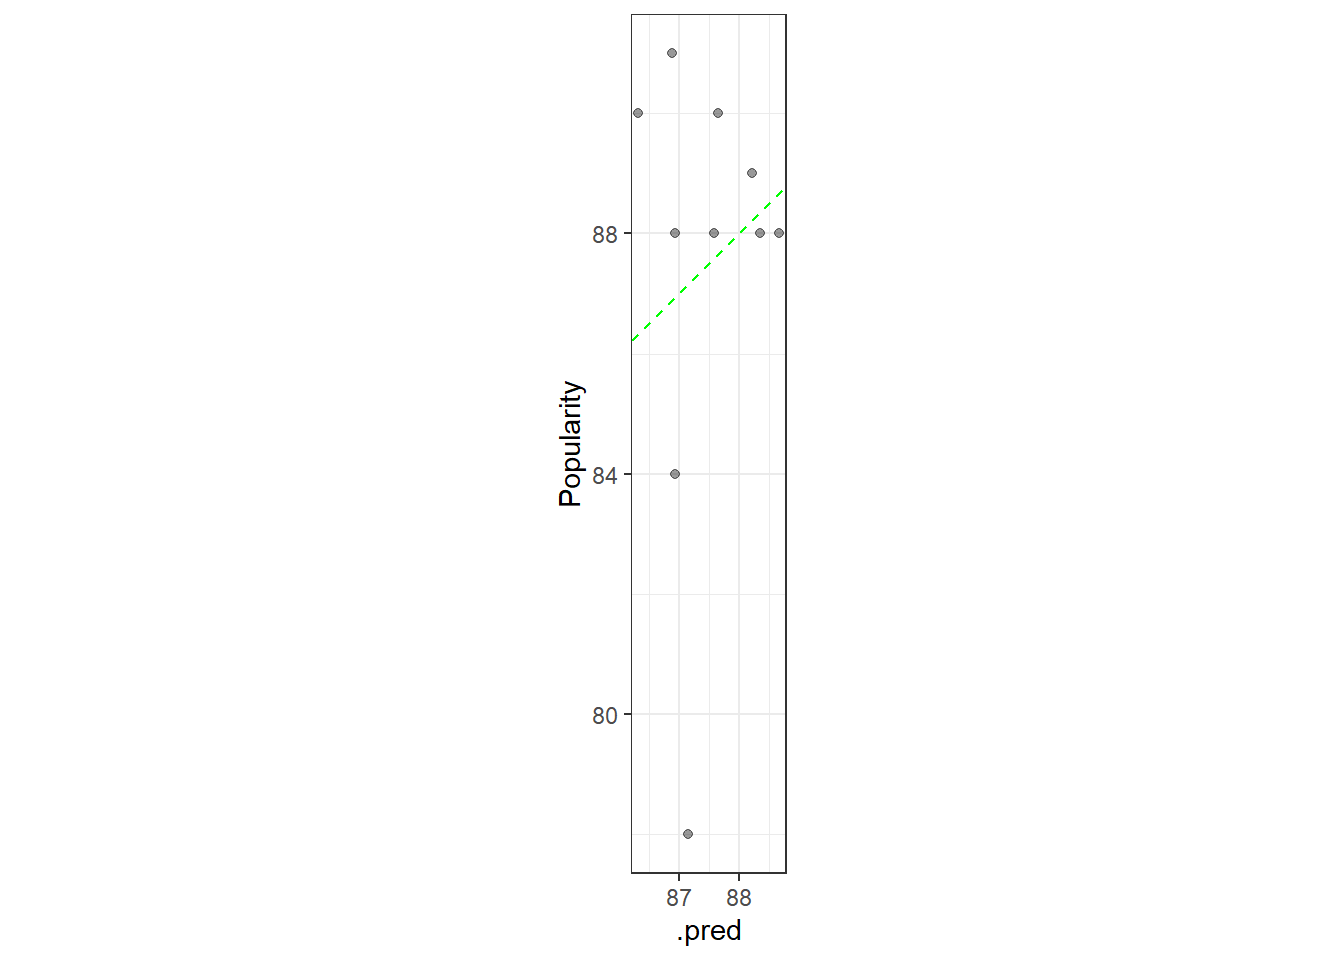
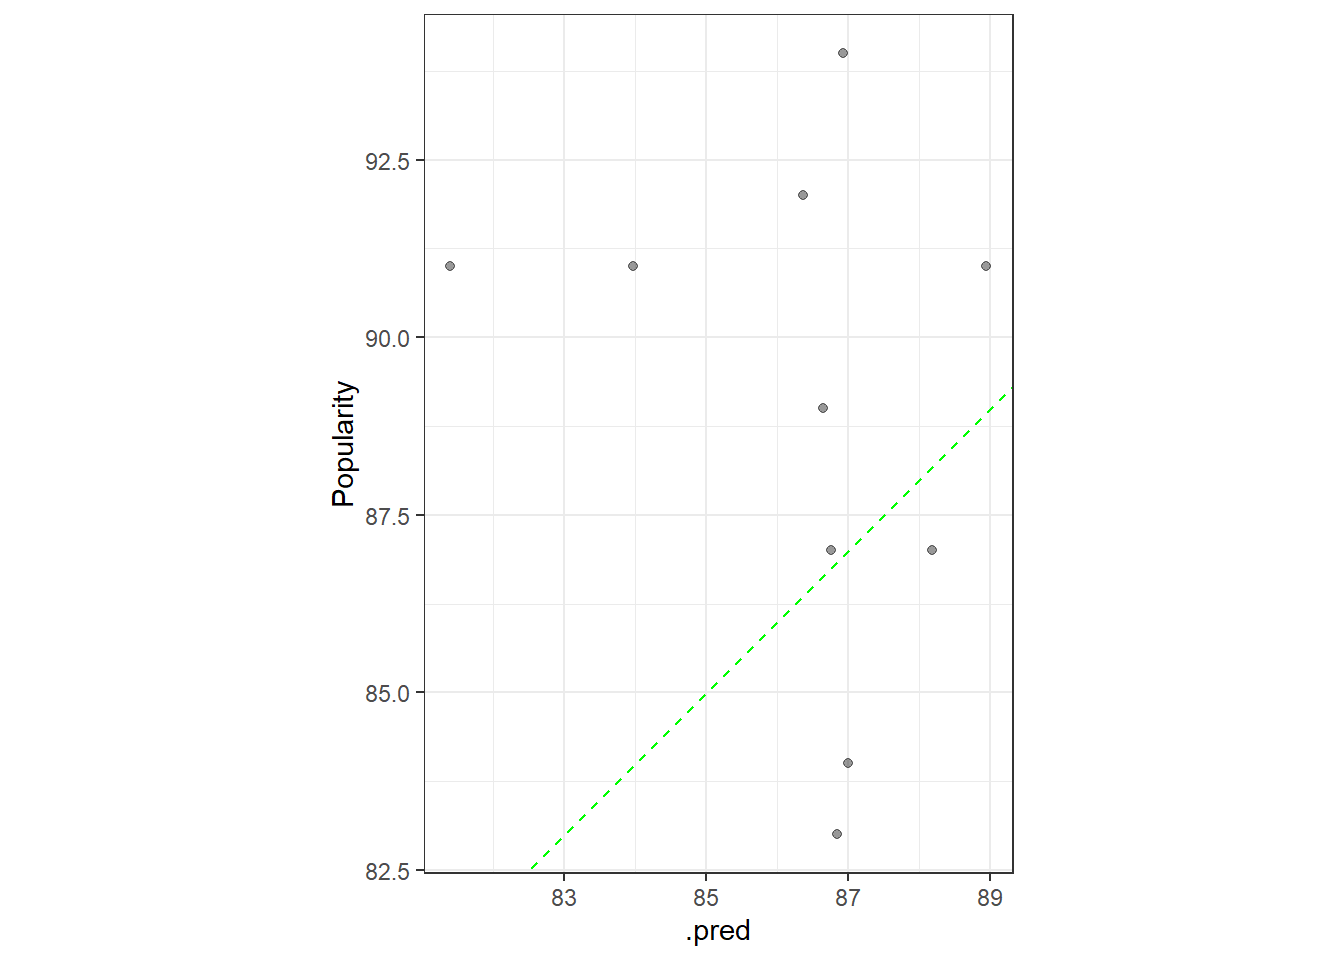
updated index

diff --git a/docs/analysis.html b/docs/analysis.html
@@ -444,25 +444,16 @@ relevant scores.</li>
 <p>We want to learn more about the impact of different measures on a
 song’s popularity, and ideally be able to then use that knowledge to be
 able to predict what would make a highly popular song</p>
-</div>
-<div id="results" class="section level2">
-<h2>Results</h2>
-<p><strong>Results:</strong><br />
-From the analysis we find that:</p>
-<ol style="list-style-type: decimal">
-<li>Overall,</li>
-</ol>
-<p><strong>Potential Investigation Next Steps:</strong></p>
-<ul>
-<li>It would be interesting in future iterations,</li>
-</ul>
-</div>
-<div id="assumptions" class="section level2">
-<h2>Assumptions</h2>
-<p><strong>Assumptions:</strong> <em>(Note: this section would likely
-take a different shape as familiarity with the data source increase/
-relationship with the customer develops)</em></p>
-<p>With this analysis we are assuming that:</p>
+<!-- ## Results -->
+<!-- __Results:__   -->
+<!-- From the analysis we find that: -->
+<!-- 1. Overall,   -->
+<!-- __Potential Investigation Next Steps:__  -->
+<!-- * It would be interesting in future iterations,  -->
+<!-- ## Assumptions  -->
+<!-- __Assumptions:__ -->
+<!-- _(Note: this section would likely take a different shape as familiarity with the data source increase/ relationship with the customer develops)_  -->
+<!-- With this analysis we are assuming that:  -->
 </div>
 </div>
 </div>
@@ -504,8 +495,8 @@ within.</p>
 possible that the category of a song could impact it’s popularity, but
 that analysis is likely one for a larger dataset.</li>
 </ul>
-<div id="htmlwidget-26db860c40dbeb248405" style="width:100%;height:auto;" class="datatables html-widget"></div>
-<script type="application/json" data-for="htmlwidget-26db860c40dbeb248405">{"x":{"filter":"none","vertical":false,"data":[["1","2","3","4","5","6","7","8","9","10","11","12","13","14","15","16","17","18","19","20","21"],["hip hop","hip hop","Other","Other","Other","Other","Other","Other","Other","pop","pop","pop","pop","pop","pop","pop","rap","rap","rap","reggaeton","reggaeton"],["atl hip hop","canadian hip hop","big room","boy band","escape room","r&amp;b en espanol","brostep","edm","latin","australian pop","pop house","canadian pop","electropop","panamanian pop","pop","dance pop","trap music","country rap","dfw rap","reggaeton","reggaeton flow"],[1,3,1,1,1,1,2,3,5,1,1,2,2,2,7,8,1,2,2,2,2]],"container":"<table class=\"display\">\n  <thead>\n    <tr>\n      <th> <\/th>\n      <th>GenreGroup<\/th>\n      <th>Genre<\/th>\n      <th>n<\/th>\n    <\/tr>\n  <\/thead>\n<\/table>","options":{"columnDefs":[{"className":"dt-right","targets":3},{"orderable":false,"targets":0}],"order":[],"autoWidth":false,"orderClasses":false}},"evals":[],"jsHooks":[]}</script>
+<div id="htmlwidget-89783bfa570155153731" style="width:100%;height:auto;" class="datatables html-widget"></div>
+<script type="application/json" data-for="htmlwidget-89783bfa570155153731">{"x":{"filter":"none","vertical":false,"data":[["1","2","3","4","5","6","7","8","9","10","11","12","13","14","15","16","17","18","19","20","21"],["hip hop","hip hop","Other","Other","Other","Other","Other","Other","Other","pop","pop","pop","pop","pop","pop","pop","rap","rap","rap","reggaeton","reggaeton"],["atl hip hop","canadian hip hop","big room","boy band","escape room","r&amp;b en espanol","brostep","edm","latin","australian pop","pop house","canadian pop","electropop","panamanian pop","pop","dance pop","trap music","country rap","dfw rap","reggaeton","reggaeton flow"],[1,3,1,1,1,1,2,3,5,1,1,2,2,2,7,8,1,2,2,2,2]],"container":"<table class=\"display\">\n  <thead>\n    <tr>\n      <th> <\/th>\n      <th>GenreGroup<\/th>\n      <th>Genre<\/th>\n      <th>n<\/th>\n    <\/tr>\n  <\/thead>\n<\/table>","options":{"columnDefs":[{"className":"dt-right","targets":3},{"orderable":false,"targets":0}],"order":[],"autoWidth":false,"orderClasses":false}},"evals":[],"jsHooks":[]}</script>
 </div>
 </div>
 <div id="coorelation-review" class="section level1">
@@ -568,7 +559,7 @@ relevant scores.</p>
 <h2>Build Model: With Random Forest</h2>
 <div data-pagedtable="false">
 <script data-pagedtable-source type="application/json">
-{"columns":[{"label":[".metric"],"name":[1],"type":["chr"],"align":["left"]},{"label":[".estimator"],"name":[2],"type":["chr"],"align":["left"]},{"label":[".estimate"],"name":[3],"type":["dbl"],"align":["right"]}],"data":[{"1":"rmse","2":"standard","3":"3.617369526"},{"1":"rsq","2":"standard","3":"0.008324653"},{"1":"mae","2":"standard","3":"2.550630000"}],"options":{"columns":{"min":{},"max":[10]},"rows":{"min":[10],"max":[10]},"pages":{}}}
+{"columns":[{"label":[".metric"],"name":[1],"type":["chr"],"align":["left"]},{"label":[".estimator"],"name":[2],"type":["chr"],"align":["left"]},{"label":[".estimate"],"name":[3],"type":["dbl"],"align":["right"]}],"data":[{"1":"rmse","2":"standard","3":"5.07876492"},{"1":"rsq","2":"standard","3":"0.06217667"},{"1":"mae","2":"standard","3":"4.19759333"}],"options":{"columns":{"min":{},"max":[10]},"rows":{"min":[10],"max":[10]},"pages":{}}}
   </script>
 </div>
 <p><img src="analysis_files/figure-html/unnamed-chunk-16-1.png" width="100%" style="display: block; margin: auto;" /></p>
